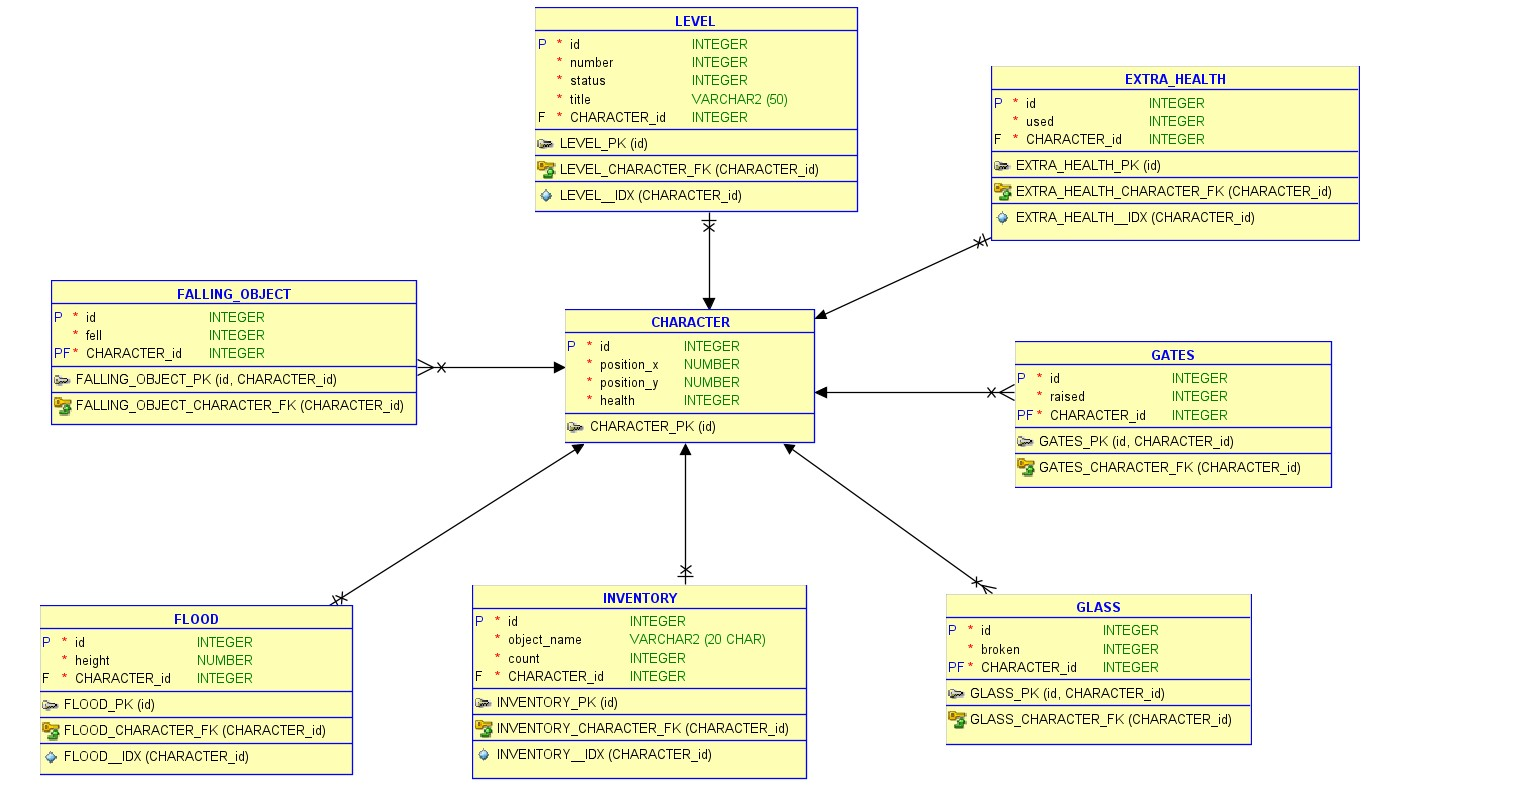
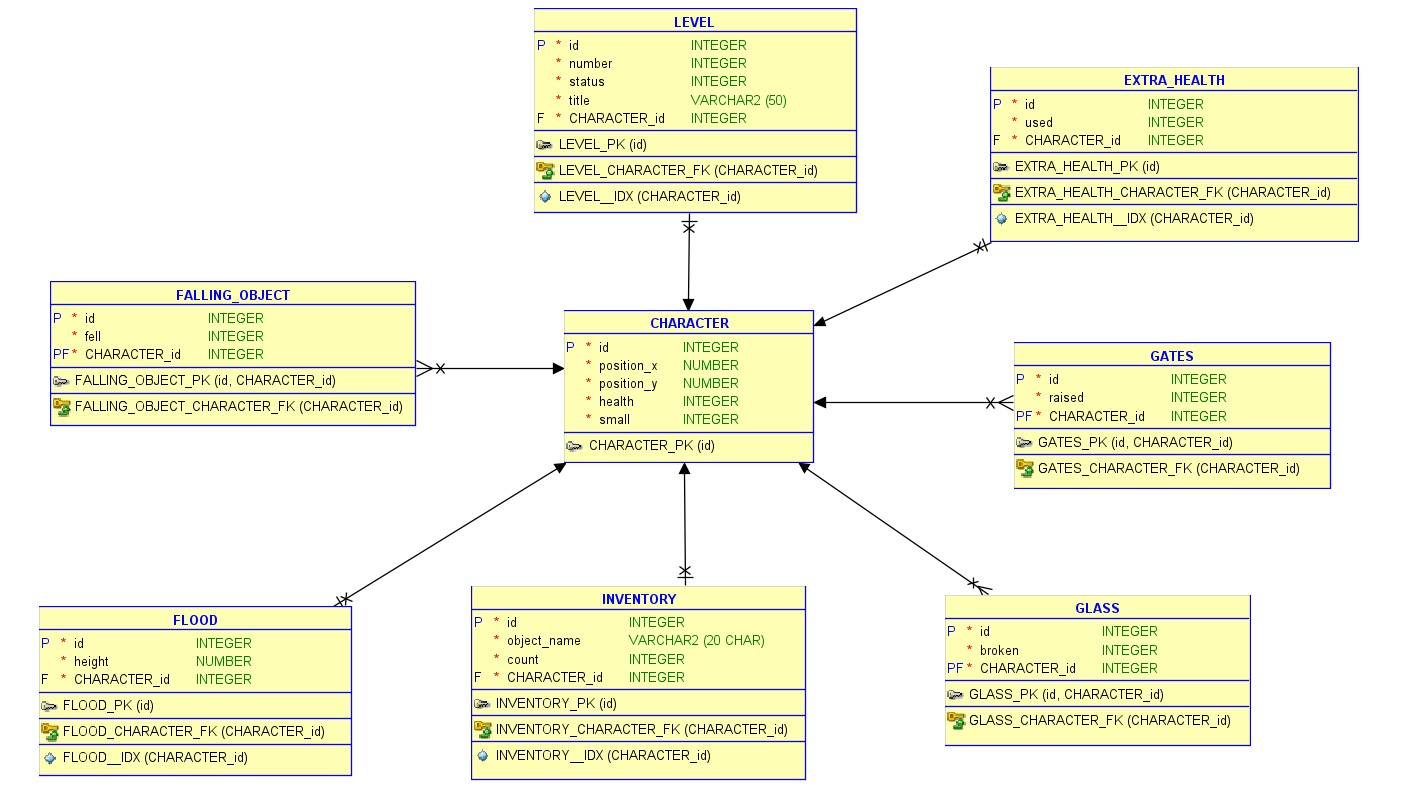
Добавлен новый атрибут в БД, подправлены методы работы с БД (#60)
Если персонаж маленький, то small = true, иначе false.

diff --git a/Assets/Scripts/DataBaseManager.cs b/Assets/Scripts/DataBaseManager.cs
@@ -198,14 +198,15 @@ public static class DataBaseManager
     }
 
     /// <summary>
-    /// Получить здоровье текущего персонажа.
+    /// Получить здоровье и размер текущего персонажа.
     /// </summary>
     /// <returns>
-    /// Целое число в диапазоне от 0 до 3 включительно.
+    /// Двумерный кортеж: первый элемент - здоровье, целое число в диапазоне от 0 до 3 включительно; второй элемент - булево значение, уменьшен ли персонаж.
     /// </returns>
-    public static int GetCharacterHealth()
+    public static (int, bool) GetCharacterHealthAndSmall()
     {
         int health = 3;
+        bool small = false;
 
         using (var conn = new SqliteConnection(connectionString))
         {
@@ -213,7 +214,7 @@ public static class DataBaseManager
 
             using (var sqlite_cmd = conn.CreateCommand())
             {
-                sqlite_cmd.CommandText = "SELECT health FROM CHARACTER WHERE id = @characterId";
+                sqlite_cmd.CommandText = "SELECT health, small FROM CHARACTER WHERE id = @characterId";
                 sqlite_cmd.Parameters.AddWithValue("@characterId", selectedCharacterId);
 
                 try
@@ -223,6 +224,7 @@ public static class DataBaseManager
                         if (sqlite_datareader.Read())
                         {
                             health = sqlite_datareader.GetInt32("health");
+                            small = translator[sqlite_datareader.GetInt32("small")];
                         }
                     }
                 }
@@ -233,7 +235,7 @@ public static class DataBaseManager
             }
         }
 
-        return health;
+        return (health, small);
     }
 
     /// <summary>
@@ -764,10 +766,11 @@ public static class DataBaseManager
     /// <param name="title">Название сцены уровня.</param>
     /// <param name="position">Двумерный кортеж 32-разрядных числовых типов данных с плавающей точкой: первый элемент — координата Ox; второй элемент — координата Oy.</param>
     /// <param name="health">Здоровье в диапазоне от 0 до 3 включительно.</param>
+    /// <param name="small">Уменьшен ли персонаж.</param>
     /// <param name="data">Словарь, где ключом является название объекта из перечисления: gate, glass, falling_object, extra_health, а значением — список булевых состояний объектов в строго упорядоченном виде.</param>
     /// <param name="flood">Список высот затоплений в строго упорядоченном виде.</param>
     /// <param name="inventory">Словарь, где ключом является название предмета в инвентаре, а значением — количество данного предмета в инвентаре.</param>
-    public static void SaveData(int number, bool status, string title, (float, float) position, int health, Dictionary<string, List<bool>> data = null, List<float> flood = null, Dictionary<string, int> inventory = null)
+    public static void SaveData(int number, bool status, string title, (float, float) position, int health, bool small = false, Dictionary<string, List<bool>> data = null, List<float> flood = null, Dictionary<string, int> inventory = null)
     {
         using (var conn = new SqliteConnection(connectionString))
         {
@@ -780,10 +783,11 @@ public static class DataBaseManager
 
                 try
                 {
-                    sqlite_cmd.CommandText = $"UPDATE CHARACTER SET position_x = @positionX, position_y = @positionY, health = @health WHERE id = @characterId";
+                    sqlite_cmd.CommandText = $"UPDATE CHARACTER SET position_x = @positionX, position_y = @positionY, health = @health, small = @small WHERE id = @characterId";
                     sqlite_cmd.Parameters.AddWithValue("@positionX", position.Item1);
                     sqlite_cmd.Parameters.AddWithValue("@positionY", position.Item2);
                     sqlite_cmd.Parameters.AddWithValue("@health", health);
+                    sqlite_cmd.Parameters.AddWithValue("@small", small ? 1 : 0);
                     sqlite_cmd.Parameters.AddWithValue("@characterId", selectedCharacterId);
                     sqlite_cmd.ExecuteNonQuery();
                     sqlite_cmd.Parameters.Clear();

diff --git a/Assets/Scripts/LevelDataManager.cs b/Assets/Scripts/LevelDataManager.cs
@@ -23,6 +23,7 @@ public class LevelDataManager : MonoBehaviour
     public static void SaveProgress()
     {
         int health = 3;
+        bool small = false;
         Vector3 position = new Vector3(0, 0, 0);
         List<float> floodHeight = new List<float>();
         Dictionary<string, int> inventory = new Dictionary<string, int>();
@@ -42,6 +43,7 @@ public class LevelDataManager : MonoBehaviour
                 case "Character":
                     {
                         position = obj.GetComponent<CharacterMove>().Position;
+                        small = obj.GetComponent <CharacterMove>().Small;
                         health = obj.GetComponent<CharacterHealth>().Health;
 
                         PlayerAbilities playerAbilities = obj.GetComponent<PlayerAbilities>();
@@ -124,7 +126,7 @@ public class LevelDataManager : MonoBehaviour
             }
         }
 
-        DataBaseManager.SaveData(levelNumber, true, sceneName, (position.x, position.y), health, data, floodHeight, inventory);
+        DataBaseManager.SaveData(levelNumber, true, sceneName, (position.x, position.y), health, small, data, floodHeight, inventory);
     }
 
     public static void LoadProgress()
@@ -140,9 +142,12 @@ public class LevelDataManager : MonoBehaviour
             {
                 case "Character":
                     {
+                        var characterInfo = DataBaseManager.GetCharacterHealthAndSmall();
                         var position = DataBaseManager.GetCharacterPosition();
+
+                        obj.GetComponent<CharacterHealth>().Health = characterInfo.Item1;
                         obj.GetComponent<CharacterMove>().Position = new Vector3(position.Item1, position.Item2, 0);
-                        obj.GetComponent<CharacterHealth>().Health = DataBaseManager.GetCharacterHealth();
+                        obj.GetComponent<CharacterMove>().Small = characterInfo.Item2;
                         obj.GetComponent<PlayerAbilities>().Key = inventory["Key"] == 1 ? true : false;
                         obj.GetComponent<PlayerAbilities>().Money = inventory["Money"] == 1 ? true : false;
 

diff --git a/Assets/Scripts/CharacterMove.cs b/Assets/Scripts/CharacterMove.cs
@@ -53,6 +53,12 @@ public class CharacterMove : MonoBehaviour
         set { position = value; }
     }
 
+    public bool Small
+    {
+        get { return isSmall; }
+        set { isSmall = value; }
+    }
+
     // Start is called before the first frame update
     void Start()
     {
